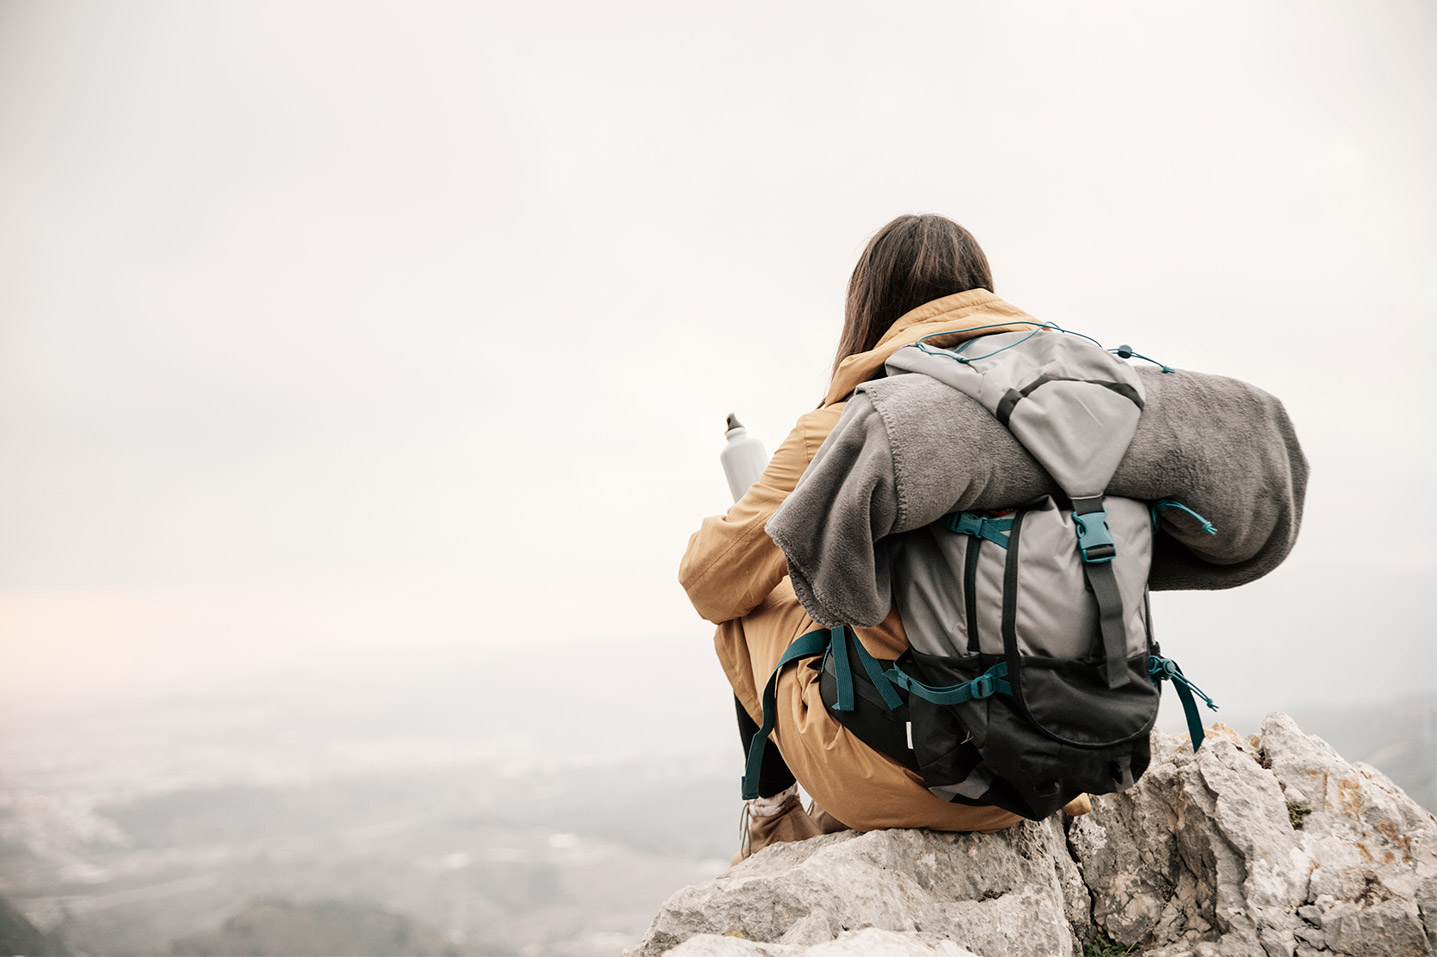
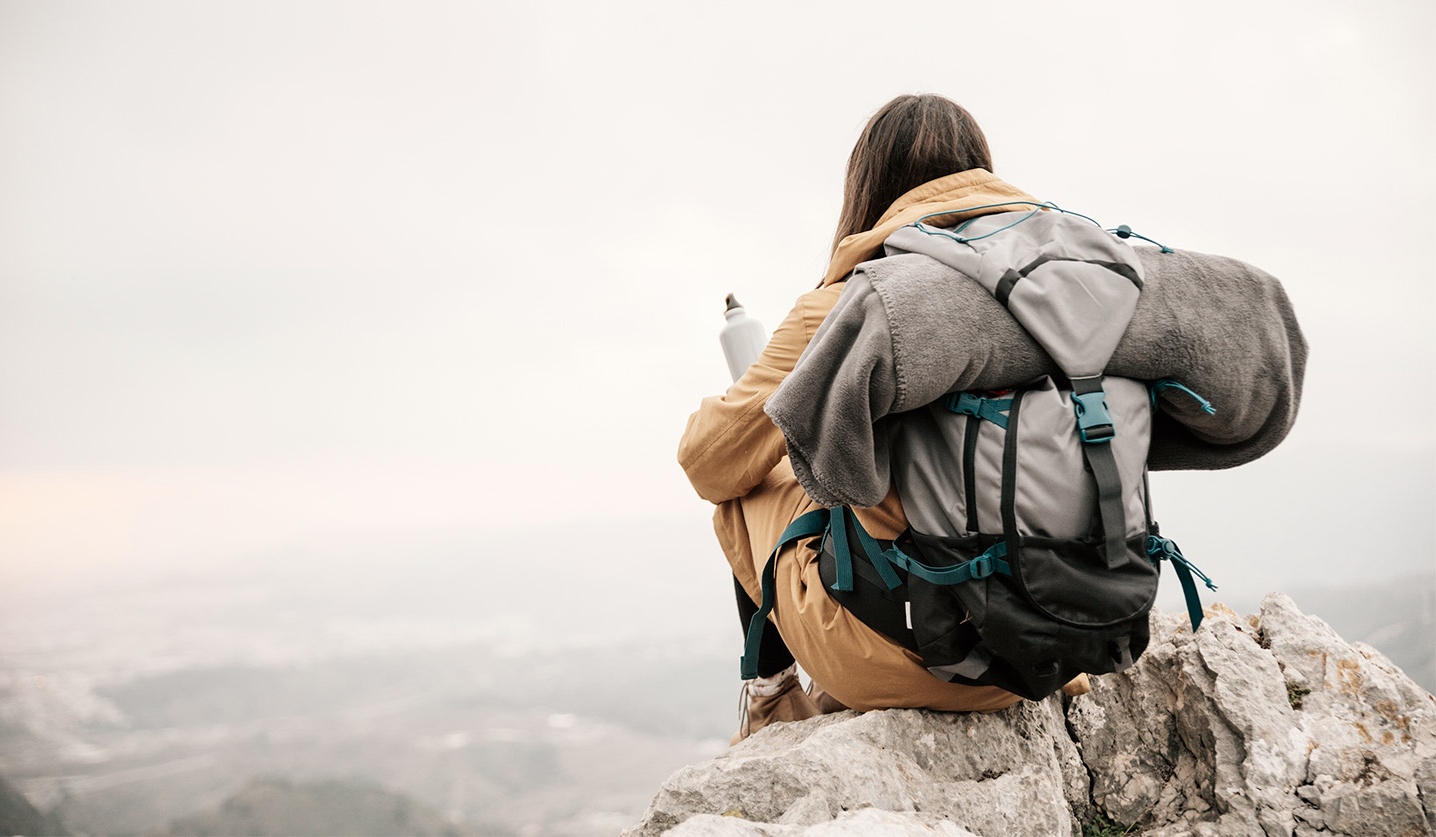
motivation

diff --git a/components/Intro/Intro.styled.ts b/components/Intro/Intro.styled.ts
@@ -1,7 +1,76 @@
 import styled from 'styled-components'
 
 export const IntroStyled = styled.img`
-    object-fit: cover;
     width: 100%;
+    height: auto;
     max-height: 80%;
+`
+
+export const IntroInner = styled.div`
+    width: 100%;
+    max-width: 580px;
+    padding-left: 20px;
+    @media (max-width: 1200px) {
+        width: 100%;
+        max-width: 500px;
+    }
+`
+
+export const IntroTitle = styled.h1`
+    margin: 0 0 30px;
+
+    font-size: 92px;
+    line-height: 1.3;
+    color: #e2a355;
+    font-weight: 800;
+    text-transform: uppercase;
+    text-shadow: 4px -4px 5px #dad9d4;
+    @media (max-width: 1200px) {
+        font-size: 80px;
+    }
+    @media (max-width: 991px) {
+        font-size: 70px;
+    } 
+    @media (max-width: 767px) {
+        font-size: 60px;
+    } 
+    @media (max-width: 575px) {
+        font-size: 50px;
+    } 
+`
+
+export const IntroSubtitle = styled.h2`
+    margin-bottom: 26px;
+
+    font-size: 25px;
+    color: #54524f;
+    font-style: italic;
+    font-weight: 700;
+    margin-left: 7px;
+    @media (max-width: 991px) {
+        font-size: 23px;
+    } 
+    @media (max-width: 767px) {
+        font-size: 20px;
+    } 
+    @media (max-width: 575px) {
+        font-size: 15px;
+    } 
+`
+
+export const IntroAfter = styled.h2`
+    margin: 25px 0 0 7px;
+
+    font-size: 21px;
+    color: #54524f;
+    font-style: italic;
+    font-weight: 400;
+    @media (max-width: 1200px) {
+        font-size: 20px;
+        color: #54524f;
+    } 
+    @media (max-width: 991px) {
+        font-size: 0;
+        color: transparent;
+    } 
 `

diff --git a/components/Intro/index.tsx b/components/Intro/index.tsx
@@ -1,20 +1,20 @@
-import { IntroStyled } from "./Intro.styled"
-import backgroundImg from "../../public/intro/1.jpg"
+import { IntroAfter, IntroInner, IntroSubtitle, IntroTitle } from "./Intro.styled"
+import { Container } from "../Header/Header.styled"
+import s from "../../styles/Link.module.css"
 
 const Intro = () => {
     return (
         <>
-        <IntroStyled src={backgroundImg.src} alt="logo"/>
-            
-            {/* <div class="container">
-                <div class="intro__inner">
-                    <h1 class="intro__title">IT´S TIME<br> FOR HIKING</h1>
-                    <h2 class="intro__subtitle">LOREMIPSUM DOLOR</h2>
-                    <a class="btn btn--white" href="#">Read more</a>
-                    <h2 class="intro__after">Lorem ipsum dolor sit amet, consectetur adipiscing elit, sed do iusmod tempor
-                        incididunt ut labore et dolore magna.</h2>
-                </div>
-            </div>  */}
+        <div className={s.intro}>
+            <Container>
+                <IntroInner>
+                    <IntroTitle>IT´S TIME<br></br> FOR HIKING</IntroTitle>
+                    <IntroSubtitle>LOREMIPSUM DOLOR</IntroSubtitle>
+                    <IntroAfter>Lorem ipsum dolor sit amet, consectetur adipiscing elit, sed do iusmod tempor
+                        incididunt ut labore et dolore magna.</IntroAfter>
+                </IntroInner>
+            </Container> 
+        </div>
         </>
     )
 }

diff --git a/components/Motivation/Motivation.styled.ts b/components/Motivation/Motivation.styled.ts
@@ -1,0 +1,43 @@
+import styled from 'styled-components'
+
+export const MotivationInner = styled.div`
+    padding: 40px 0 60px 0;
+    width: 100%;
+    max-width: 750px;
+    margin: 0 auto;
+`
+
+export const MotivationTitle = styled.h1`
+    font-size: 63px;
+    color: #e2a355;
+    font-weight: 800;
+    text-transform: uppercase;
+    text-align: center;
+    margin-bottom: 40px;
+    @media (max-width: 991px) { 
+        font-size: 60px;
+    }
+    @media (max-width: 776px) { 
+        font-size: 55px;
+    }
+    @media (max-width: 575px) { 
+        font-size: 50px;
+        margin-bottom: 10px;
+    }
+`
+
+export const MotivationSubtitle = styled.h2`
+    font-size: 27px;
+    color: #7f7770;
+    font-weight: 400;
+    text-align: center;
+    @media (max-width: 991px) { 
+        font-size: 24px;
+    }
+    @media (max-width: 776px) { 
+        font-size: 21px;
+    }
+    @media (max-width: 575px) { 
+        font-size: 18px;
+    }
+`

diff --git a/components/Motivation/index.tsx b/components/Motivation/index.tsx
@@ -1,0 +1,15 @@
+import { MotivationInner, MotivationSubtitle, MotivationTitle } from "./Motivation.styled"
+
+const Motivation = () => {
+    return (
+        <MotivationInner>
+            <MotivationTitle>Let´s go</MotivationTitle>
+            <MotivationSubtitle>
+                Lorem ipsum dolor sit amet, consectetur adipiscing elit, sed do iusmod
+                tempor incididunt ut labore et dolore magna.
+            </MotivationSubtitle>
+        </MotivationInner>
+    )
+}
+
+export default Motivation

diff --git a/pages/index.tsx b/pages/index.tsx
@@ -1,5 +1,6 @@
 import Header from "../components/Header"
 import Intro from "../components/Intro"
+import Motivation from "../components/Motivation"
 import { GlobalStyle } from "../styles/Global.styled"
 
 export default function Home() {
@@ -8,6 +9,7 @@ export default function Home() {
             <GlobalStyle />
             <Header />
             <Intro />
+            <Motivation />
         </div>
     )
 }

diff --git a/styles/Link.module.css b/styles/Link.module.css
@@ -9,3 +9,9 @@
 .nav__link:hover {
     opacity: 1;
 }
+
+.intro {
+    height: 957px;
+    padding-top: 300px;
+    background: #f1eeeb url("../public/intro/1.jpg") no-repeat center / cover;
+}

diff --git a/pages/_app.tsx b/pages/_app.tsx
@@ -1,4 +1,3 @@
-import "../styles/globals.css"
 import type { AppProps } from "next/app"
 import Head from "next/head"
 
